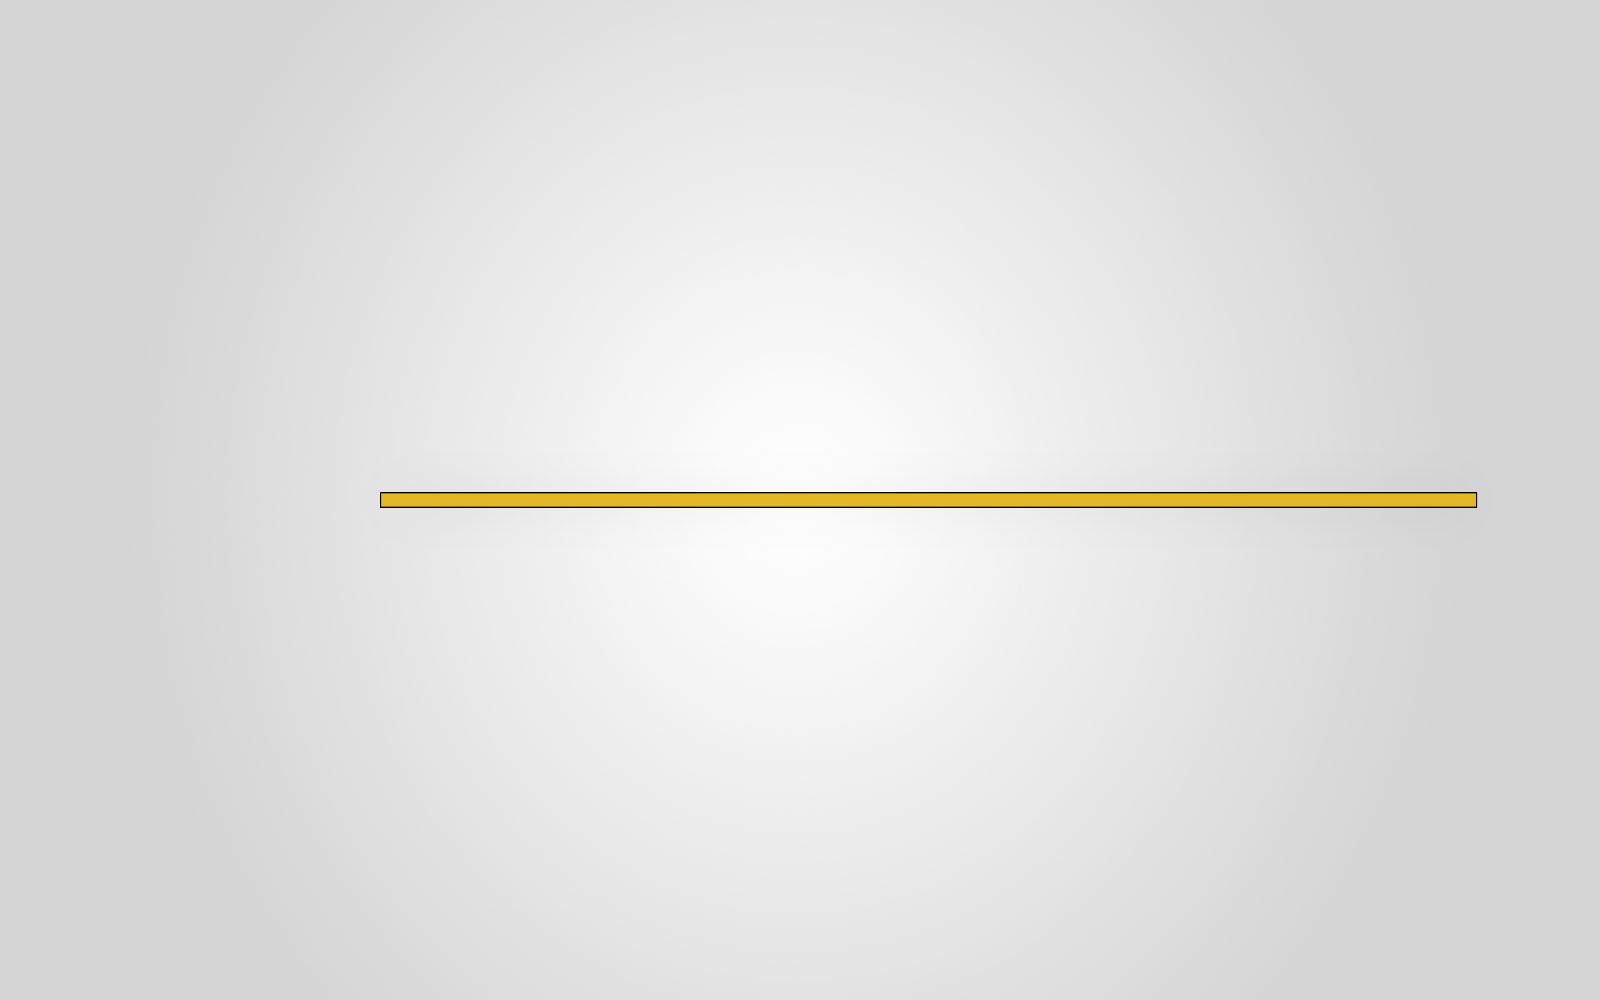
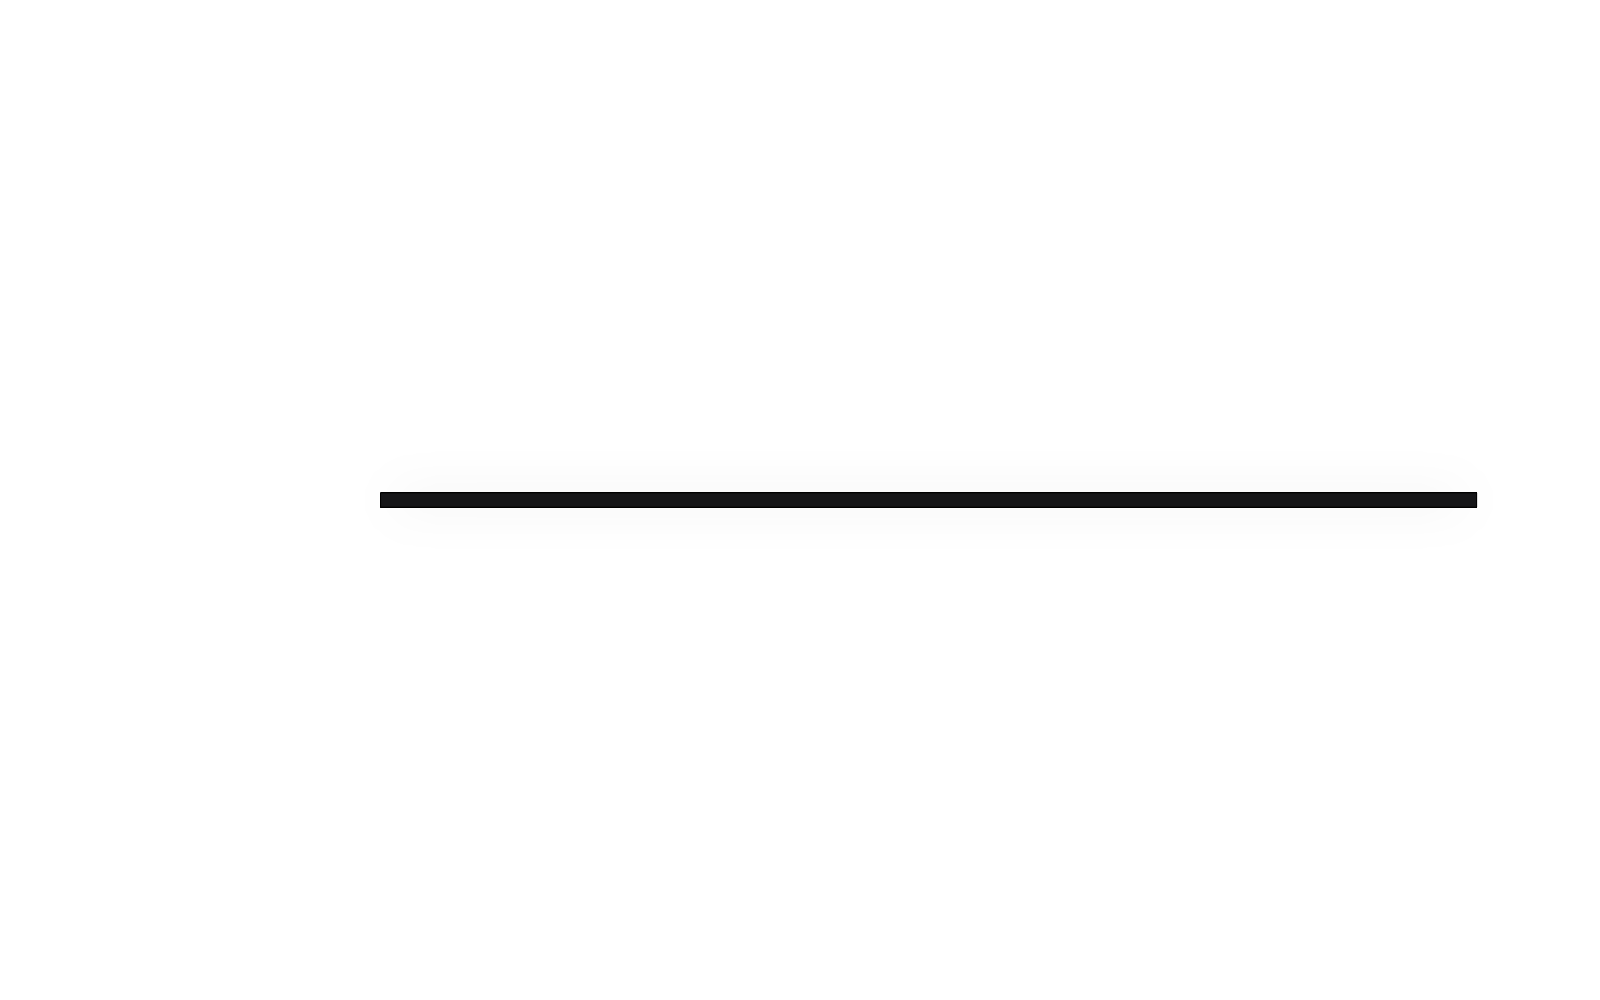
M6.10: platen gets 4x O3x3.5 clip-screw sockets (machine-handed locals; measure moved before the cut -- post-cut view broke the face pick)

diff --git a/cad/scripts/build_platen.py b/cad/scripts/build_platen.py
@@ -2,9 +2,16 @@ r"""Reproduction script: platen plate (book ch. 22, pp. 54-55).
 
 The heavy darkened-brass plate that carries the recording paper. The
 toothed rack bar screwed to its back bottom edge and the two paper-clip
-strips are separate parts (build_platen_rack.py / build_platen_clip.py);
-fastener holes are deferred to assembly (M6) when the mating hardware
-positions are fixed.
+strips are separate parts (build_platen_rack.py / build_platen_clip.py).
+M6.10 fasteners pass: four O3 x 3.5 sockets in the front face take the
+clip fillister screws (through the clips' existing O3 end holes). The
+sockets are authored MACHINE-handed: the platen's default "x" mirror
+realizes as a pure translation (machine x = local - 42, machine y =
+local + 305, machine front face z -142.9 = local z 0), so machine
+socket targets (245/-27, y 320/429) pass straight through as local
+(287/15, 15/124). The sockets are NOT symmetric about the plate centre
+(the clips sit asymmetrically), which is fine precisely because the
+realized transform never flips the part.
 
 Dimensions: cad/DIMENSIONS.md "Chapter 22" — 140 mm height annotated
 (p.55 callout, high); width ~300 from the front-photo aspect (~2.15:1)
@@ -21,6 +28,7 @@ Run (SolidWorks already open)::
 
 from __future__ import annotations
 
+import math
 import sys
 
 from _common import (
@@ -29,11 +37,13 @@ from _common import (
     apply_color,
     PANEL_BLACK,
     check,
+    define_circle,
     ensure_fully_defined,
     measure_check,
     report_mass_properties,
     run_build,
     save_part_and_images,
+    set_sketch_direct_db,
 )
 
 PART_NAME = "platen"
@@ -42,6 +52,11 @@ MATERIAL = "Brass"  # see _common.apply_material docstring
 PLATE_WIDTH = 300.0  # DIMENSIONS.md ch22: photo aspect vs 140 mm (low)
 PLATE_HEIGHT = 140.0  # DIMENSIONS.md ch22: p.55 callout (high)
 PLATE_THICKNESS = 4.0  # DIMENSIONS.md ch22: p.55 edge-on photo (low)
+
+# M6.10 clip-screw sockets (machine-handed locals, see docstring).
+SOCKET_DIA = 3.0  # the fillister screws' O2.9 shanks thread in (low)
+SOCKET_DEPTH = 3.5  # 0.5 web to the back face
+SOCKET_XY = ((15.0, 15.0), (15.0, 124.0), (287.0, 15.0), (287.0, 124.0))
 
 
 async def build(adapter) -> dict[str, str]:
@@ -66,10 +81,12 @@ async def build(adapter) -> dict[str, str]:
         await adapter.create_extrusion(ExtrusionParameters(depth=PLATE_THICKNESS)),
     )
 
-    await apply_material(adapter, MATERIAL)
-    await apply_color(adapter, PANEL_BLACK)  # ch30 plates: see _common palette
-
-    # Verify the annotated 140 mm front-face height (p.55 callout).
+    # Clip-screw sockets from the front face (local z 0): a both-directions
+    # cut of 2x depth about the sketch plane lands exactly 0..3.5 in
+    # material (the -z half is air).
+    pre = await adapter.get_mass_properties()
+    # Verify the annotated 140 mm front-face height BEFORE the socket cut
+    # (the post-cut view broke the screen-projected face pick live).
     mid_x, mid_z = PLATE_WIDTH / 2.0, PLATE_THICKNESS / 2.0
     await measure_check(
         adapter,
@@ -81,6 +98,31 @@ async def build(adapter) -> dict[str, str]:
         "normal_distance",
         PLATE_HEIGHT,
     )
+
+    # Direct-db: the sketch plane is coplanar with the plate's front face,
+    # and inference against the face broke the second add_circle live.
+    check("create_sketch sockets", await adapter.create_sketch("Front"))
+    set_sketch_direct_db(adapter, True)
+    for x, y in SOCKET_XY:
+        await define_circle(adapter, x, y, SOCKET_DIA / 2.0, f"socket ({x:.0f}, {y:.0f})")
+    set_sketch_direct_db(adapter, False)
+    await ensure_fully_defined(adapter, "sockets sketch")
+    check("exit_sketch sockets", await adapter.exit_sketch())
+    check(
+        "cut sockets",
+        await adapter.create_cut_extrude(
+            ExtrusionParameters(depth=2.0 * SOCKET_DEPTH, both_directions=True)
+        ),
+    )
+    post = await adapter.get_mass_properties()
+    v_sockets = len(SOCKET_XY) * math.pi * (SOCKET_DIA / 2.0) ** 2 * SOCKET_DEPTH
+    removed = pre.data.volume - post.data.volume
+    print(f"  sockets removed {removed:.1f} mm^3 (analytic {v_sockets:.1f})")
+    if abs(removed - v_sockets) > 0.02 * v_sockets:
+        raise RuntimeError(f"sockets removed {removed:.1f}, expected {v_sockets:.1f}")
+
+    await apply_material(adapter, MATERIAL)
+    await apply_color(adapter, PANEL_BLACK)  # ch30 plates: see _common palette
 
     await report_mass_properties(adapter)
     return await save_part_and_images(adapter, PART_NAME)
